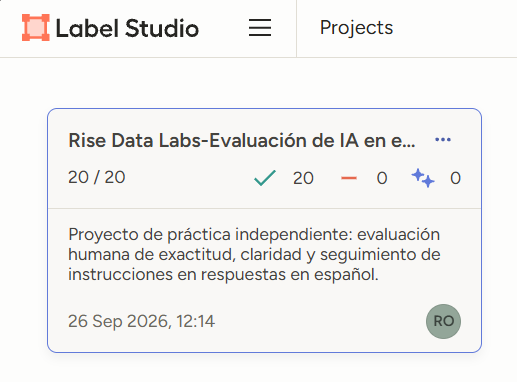
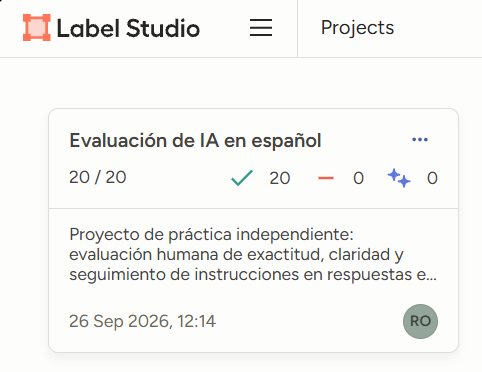
Add English summary and refresh project evidence

diff --git a/README.md b/README.md
@@ -1,10 +1,24 @@
-# Evaluación de respuestas de IA en español
+# Spanish AI Response Evaluation — Label Studio
+
+## English summary
+
+A hands-on portfolio project involving **20 Spanish-language synthetic cases**, evaluated in Label Studio across **accuracy, clarity, and instruction following**.
+
+- Applied documented annotation guidelines and recorded evidence for each decision.
+- Identified calculation, translation, summarization, and formatting errors, as well as claims that could not be verified from the available information.
+- Reviewed annotation consistency with AI assistance and exported the completed dataset in JSON format.
+
+This was a guided learning exercise using synthetic examples prepared with AI assistance. The guidelines were refined during the exercise, and some justifications were revised with AI support. It is **not a benchmark of a real model or work commissioned by Rise Data Labs**.
+
+**Explore the evidence:** [annotation guidelines (Spanish)](guia_evaluacion_es.md), [practice report (Spanish)](informe_practica_es.md), and [20 annotated cases (JSON)](evaluaciones_es_final.json). Screenshots and a worked example appear below. No installation is needed to review the portfolio.
+
+## Evaluación de respuestas de IA en español
 
 **20 casos anotados · Label Studio · Exactitud, claridad y seguimiento de instrucciones**
 
 Proyecto personal de portafolio que muestra un flujo de evaluación humana: aplicar criterios, detectar errores, justificar decisiones y revisar la consistencia de las anotaciones.
 
-La muestra utiliza respuestas sintéticas preparadas para una práctica guiada con asistencia de IA. No es una evaluación de rendimiento de un modelo real ni un trabajo encargado por Rise Data Labs; ese nombre aparece en las capturas como contexto de la postulación.
+La muestra utiliza respuestas sintéticas preparadas para una práctica guiada con asistencia de IA. No es una evaluación de rendimiento de un modelo real ni un trabajo encargado por Rise Data Labs.
 
 ## Qué hice
 

diff --git a/informe_practica_es.md b/informe_practica_es.md
@@ -10,7 +10,7 @@ El participante realizó las anotaciones y recibió orientación y revisión de 
 
 ## Integridad del archivo
 
-Fuente: evaluaciones_es_final.json (exportación de Label Studio del 26 de septiembre de 2026 a las 13:14).
+Fuente: evaluaciones_es_final.json (exportación de Label Studio del 26 de septiembre de 2026 a las 16:18).
 
 La exportación contiene 20 tareas, cada una con una anotación no cancelada, tres etiquetas y una justificación no vacía. Se verificaron las correcciones de los casos 2, 5, 9 y 11. El archivo original no se modificó.
 
@@ -61,5 +61,6 @@ La exportación final incorpora las correcciones editoriales de los casos 16 y 1
 Muestra pequeña, seleccionada para enseñanza y con errores introducidos deliberadamente. Un participante humano y revisión asistida por IA; no hubo segundo anotador humano independiente, referencia externa validada ni medición de acuerdo entre anotadores. La guía evolucionó durante la práctica. No se infiere preparación laboral certificada ni afiliación a una empresa.
 
 Descripción sugerida para el portafolio: «Práctica guiada de evaluación de 20 respuestas sintéticas en español mediante Label Studio. Apliqué una rúbrica de exactitud, claridad y seguimiento de instrucciones, redacté justificaciones y revisé la consistencia de las anotaciones con asistencia de IA».
+
 
 
